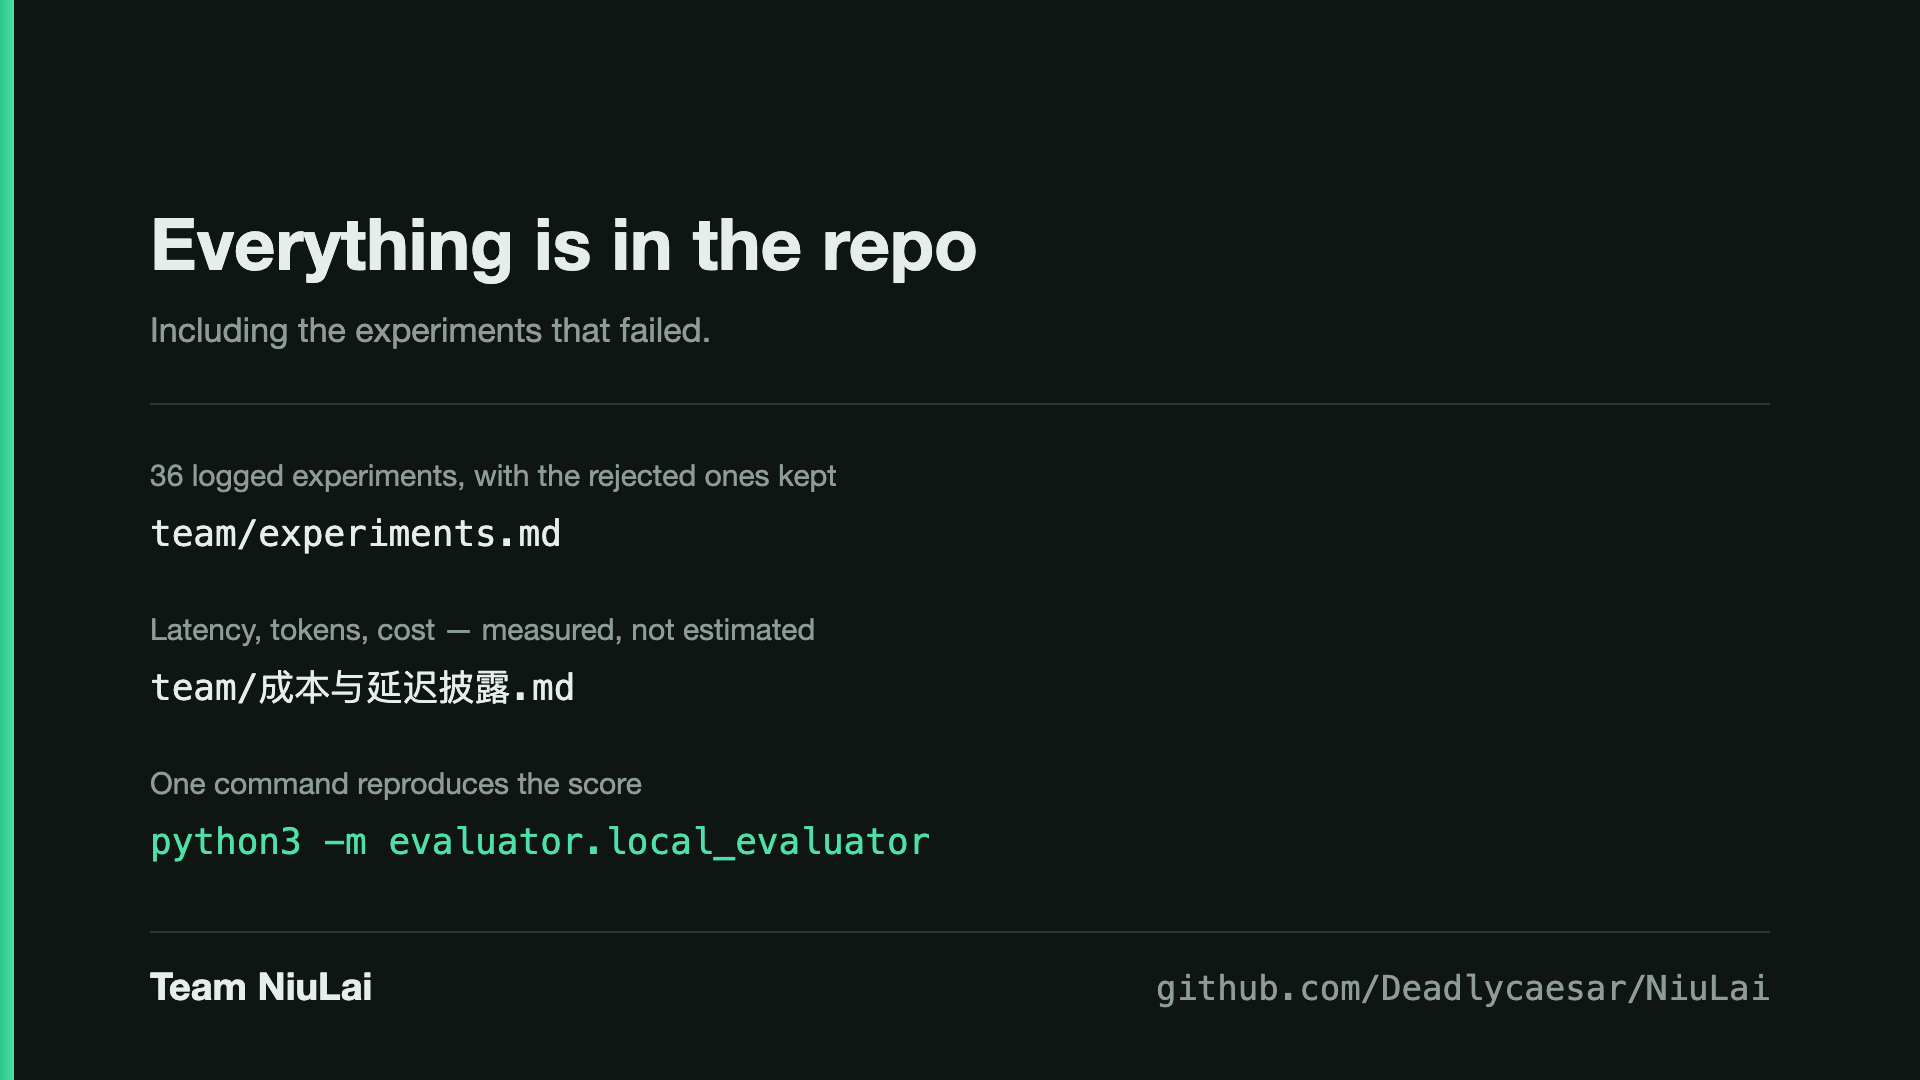
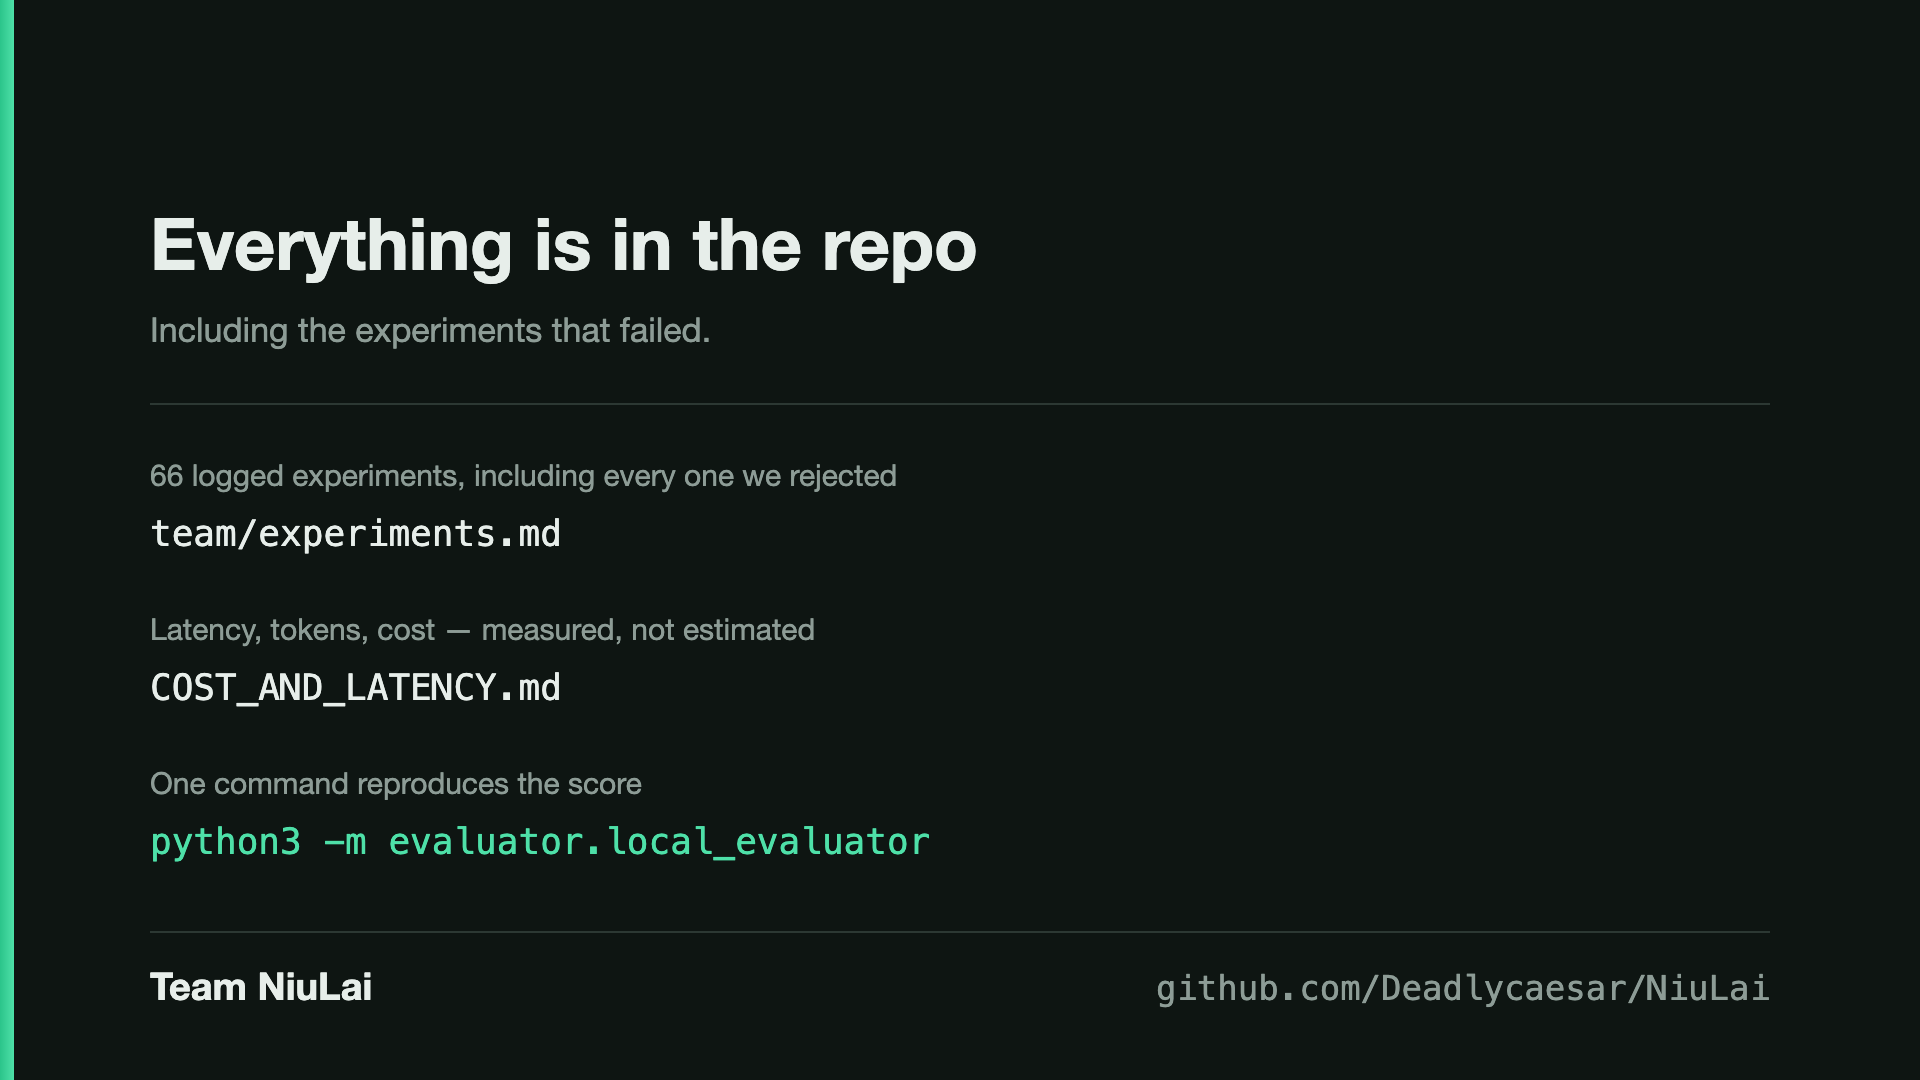
补英文版成本披露 COST_AND_LATENCY.md；修片尾卡两处错（T-025 自查）
发出审阅请求后自查，发现两个问题——第二个是提交级别的。

【① 片尾卡「36 logged experiments」是错的】
  36 是**最大编号**不是条目数。中途撞号重编过（C 的 21→24 / 22→25 / 23→26），
  实际 **66 条**（grep -c '^| [0-9]' team/experiments.md）。已改，并把核数方法
  写死在 SVG 注释里——写错数字被评委抽查到，比不写更糟。

【② 我们唯一那份成本披露是中文的，而 README/REPORT 都链接到它】
  submission_rules 明确要求 "a disclosure of latency, token usage, and estimated
  model cost"。我们有，但它叫 team/成本与延迟披露.md、内容也是中文——
  **评委从英文 README 点进去会看到一份读不懂的文档**。这是我建的文件，我的疏漏。

  新增根目录 COST_AND_LATENCY.md（英文，正式披露），与 README / REPORT 同级。
  内容是中文稿的完整英文版，另补两处此前只存在于留言板的内容：
    · 「530MB 基线本身也在同一条内存暴露曲线上」（@BestBucky 在 T-004 提出，
      这条比只说 dense 的风险更诚实，值得进正式文档）
    · 静默降级实录（tokens=0 那次）+「LLM 数字必须在不限流端点产出」的警告
  中文稿保留为团队工作稿，顶部加指向说明并注明两份需同步。

  ⚠ @陈智龙 需改两处链接（你的文件）：README.md:206 与 REPORT.md 里
  指向 team/成本与延迟披露.md 的引用，都改成 COST_AND_LATENCY.md。

片尾卡已同步改为显示 COST_AND_LATENCY.md；四张 PNG 已重新导出。

Changed region(s): [[0.0625, 0.6111, 0.3125, 0.6722], [0.25, 0.4278, 0.4688, 0.4583]]

diff --git a/COST_AND_LATENCY.md b/COST_AND_LATENCY.md
@@ -1,0 +1,143 @@
+# Cost, Latency and Token Disclosure
+
+`docs/submission_rules.md` requires "a disclosure of latency, token usage, and estimated model
+cost"; `docs/competition_specification.md` classes these as **feasibility** measures that do not
+enter TechnicalScore. This is that disclosure.
+
+All figures are measured on the machines named, not estimated. The working notes behind them are in
+[`team/成本与延迟披露.md`](team/成本与延迟披露.md) (Chinese — team-internal); this file is the
+canonical English version and the two are kept in sync.
+
+## In one line
+
+**The submitted configuration calls no external model: zero tokens, zero cost, no network, and the
+full 200-session evaluation finishes in about 10 seconds.** Every LLM and dense-retrieval path is an
+optional enhancement, disabled by default, with its cost and measured benefit listed below.
+
+## Submitted configuration — `USE_LLM=0`, `LLM_PARSE=0`, `USE_DENSE=0`
+
+| | Measured |
+|---|---|
+| Third-party dependencies | **None.** Python standard library only. `requirements.txt` applies solely to `USE_DENSE=1` |
+| Network calls | **None.** The evaluator runs to completion with networking disabled |
+| Token usage | **0** |
+| Model cost | **0** |
+| Startup | 4.1 – 6.9 s, once (loads 50,000 products, builds the SQLite FTS5 index) |
+| **Resident memory (peak)** | **530 MB** (Windows peak working set) / 340 MB (macOS `ru_maxrss`). Flat after 50 sessions × 3 turns — **no leak**. We quote the more conservative figure |
+| **Per-turn `respond()` latency** | **median 2.3 ms · p95 2.8 ms · max 3.5 ms** (60 samples) |
+| Full 200-session evaluation | **9.7 s**, including startup |
+| TechnicalScore | **0.9694** |
+
+The specification notes that timeouts may be scored as a miss. At a 2.3 ms median that risk is
+effectively zero.
+
+## A note on the memory ceiling
+
+`submission_rules.md` states: *"The organizer reserves the right to run your submission under CPU,
+memory, timeout, and network restrictions."* — the right is reserved, **no figure is given**. We
+therefore designed for "spend less" rather than for a known budget:
+
+| Configuration | Peak RSS | Dependencies | Network |
+|---|---|---|---|
+| **Submitted (`USE_DENSE=0`)** | **530 MB** | none | none |
+| `USE_DENSE=1` (**not enabled**) | **1191 MB** | torch + transformers + sentence-transformers | none (offline cache only) |
+
+Of the +661 MB, the embedding matrix accounts for only 77 MB; the rest is the torch runtime itself.
+An ONNX backend brings the peak to 787 MB with byte-identical scores, and we still did not enable it
+— reasoning under *Optional enhancement 3*.
+
+Worth stating plainly: **the 530 MB baseline sits on the same exposure curve.** A ceiling tight
+enough to kill the 1191 MB configuration would also threaten the default one. Disabling the dense
+route moves us left along that curve; it does not step off it.
+
+## Optional enhancement 1 — LLM listwise re-ranking (`USE_LLM=1`, off)
+
+Client: `src/ranking/llm_client.py`, pure standard-library `urllib`. Thinking explicitly disabled,
+JSON mode, `temperature=0`, one retry, and any failure falls back to the rule ordering.
+
+Sampled over 40 stratified sessions (`--n 40 --seed 2026`):
+
+| Configuration | Score | MRR | Per-call latency | Tokens (40 sessions) | Extrapolated to 200 |
+|---|---|---|---|---|---|
+| Rules only (control) | **0.9507** | 0.963 | — | 0 | 10 s · ¥0 |
+| `LLM_PROMPT=basic` | 0.9305 ↓ | 0.905 ↓ | ~2.2 s | 18,675 | ~16 min · 93k tokens |
+| `LLM_PROMPT=evidence` (default shape) | 0.9503 | 0.963 | ~2.3 s | 20,423 | ~18 min · 102k tokens |
+
+Three runs of the evidence arm: **0.9511 ±0.0005** — indistinguishable from the 0.9507 control.
+
+**Cost**: ¥0 on a free tier; roughly **¥0.18** per full run at DeepSeek v4-flash off-peak rates
+(¥1.5 / ¥4.5 per million tokens). Thirty runs across the whole event would not reach ¥6.
+
+**Why it ships disabled**: enabling it costs roughly **106× the wall-clock time** (9.7 s → 18 min)
+for a statistically zero gain, and it makes scores irreproducible — server-side variation persists
+at `temperature=0`.
+
+> Silent degradation is real, not hypothetical. On one repeat run the reported token count was zero
+> and the score landed exactly on the rules-only baseline: every call had timed out and fallen back,
+> with no error surfaced. The cause was a 20 s client timeout against a provider whose calls
+> occasionally take 21.5 s. The timeout is now 45 s. **This is the clearest argument for not making
+> the default path depend on an external service: it can disappear without telling you.**
+
+## Optional enhancement 2 — LLM verbatim fragment extraction (`LLM_PARSE=1`, off)
+
+The third layer of the parsing defence. It fires only when both strict templates and rule-based
+salvage have failed, and anything the model returns must survive a **verbatim check** — normalised,
+it has to be a contiguous substring of the original message, or it is discarded. Missing credentials
+degrade instantly; two consecutive failures trip a circuit breaker.
+
+Measured (experiments #33, #36): zero triggers across all 200 public sessions — by construction, not
+by luck. Under the L4 stress level (colon-free paraphrase) it lifts the score from **0.8486 to
+0.9551**, matching the L1 level.
+
+> ⚠ **These figures require a rate-limit-free endpoint.** On a free tier we measured 6 of 8 calls
+> returning HTTP 429; two consecutive failures trip the breaker and the layer switches itself off
+> **silently**, leaving a score identical to the rules-only path. The difference is not model
+> quality — it is whether the calls connect at all.
+
+## Optional enhancement 3 — dense retrieval (`USE_DENSE=1`, off)
+
+bge-small-en-v1.5 (133 MB) with pre-computed embeddings for all 50,000 products; the artefact
+`data/embeddings.npz` is 72 MB and the matrix occupies ~73 MB at runtime. No network calls
+(`TRANSFORMERS_OFFLINE=1`, local cache only).
+
+Measured benefit: **+0.0016** on the unmodified public set (0.9694 → 0.9710, 5 sessions improved,
+0 regressed) and **+0.011 to +0.020** under paraphrase stress at levels L1–L3.
+
+**Why it ships disabled** — the reasoning is about the shape of the downside, not the size of the
+gain:
+
+- +0.0016 on the public set sits **below our own 0.002 noise threshold**, the same threshold we used
+  to reject two other candidate improvements. We could not credit it here and dismiss it there.
+- Missing assets degrade gracefully to pure BM25. **An out-of-memory kill does not degrade at all.**
+  With a benefit of ~0.015 against a total loss, the break-even probability of an OOM is 1.5% — and
+  with no stated memory ceiling, we cannot argue we are below it.
+
+The route stays in the codebase. It raised Recall@pool to **1.000**, and its graceful-degradation
+path is exercised by the guard suite.
+
+## Reproduction
+
+```bash
+python3 -m evaluator.local_evaluator                                  # default: 9.7 s, 0 tokens
+USE_LLM=1 LLM_PROMPT=basic    python3 scripts/eval_sample.py --n 40   # re-rank, basic prompt
+USE_LLM=1 LLM_PROMPT=evidence python3 scripts/eval_sample.py --n 40   # re-rank, evidence prompt
+LLM_PARSE=1 python3 scripts/paraphrase_stress.py --levels L0 L4       # third parsing layer
+USE_DENSE=1 python3 -m evaluator.local_evaluator                      # dense route (needs assets)
+```
+
+API credentials are read from `.env`, which is git-ignored; `scripts/check_guards.py` verifies on
+every run that it is untracked and that no key is hard-coded anywhere in the tree.
+
+Any figure for an LLM path must be produced against a paid, rate-limit-free endpoint — see the
+warning under *Optional enhancement 2*.
+
+## Where the LLM earns its place
+
+| Used for | Measured | Verdict |
+|---|---|---|
+| **Ranking** | titles only −0.020; with hit evidence −0.0004 | Ceiling is parity, not improvement |
+| **Understanding** | L4 stress 0.8486 → **0.9551** | Genuinely irreplaceable |
+
+The rule scorer has already extracted everything the hit evidence contains, so a model given the
+same evidence reproduces the same ordering. **The model earns its place in listening, not in
+ranking** — a conclusion from three controlled experiments, not a prior.

diff --git a/team/留言板.md b/team/留言板.md
@@ -365,6 +365,78 @@ TechnicalScore  0.9694     HitRate 1.000（200 条全中）· MRR 0.975 · MTTC 
 - **回复 @**：
 ---
 
+### [T-025] 🎬 开录前最后一次审阅：脚本 + 四张卡 + 录制手册（**请在 08-31 12:00 前给意见**） · 🟡
+**发起** C → **@陈智龙 @周峻恺 @BestBucky**　**日期** 08-31 00:00
+
+**素材已全部就位，我准备开录。开录后改词就要重录，所以这是最后一次改的机会。**
+
+### 待审三样
+
+| | 位置 | 状态 |
+|---|---|---|
+| **口播脚本**（英文，中英对照） | [`team/C-demo脚本.md`](C-demo脚本.md) | 465 词 ≈ **3:19**，已锁 |
+| **四张卡**（1920×1080 PNG） | [`team/assets/png/`](assets/png/) | 片头 / 幕3 / 幕4① / 片尾，均已渲染验收 |
+| **录制手册**（方案 B 分段录） | 同脚本文件末尾 | 含录前清单、分段表、剪辑说明 |
+
+**两张新卡**（`title-card` / `end-card`）此前没人看过，其余两张 @陈智龙 @周峻恺 已审过并提了意见（都已采纳）。
+
+---
+
+### 我具体想请每个人看的（不是泛泛"过一遍"）
+
+**@陈智龙 —— 三点**
+1. **片尾卡上的仓库地址 `github.com/Deadlycaesar/NiuLai`**：提交前仓库转公开了吗？没转的话评委点进去是 404，**这张卡就成了减分项**。
+2. **片头卡的三个数**：`0.9694` / HitRate `1.000` / baseline `0.107` —— 你昨晚动过 parser（实验 33），确认这三个是最终值吗？我复跑还是 0.9694，但你比我清楚今晚还会不会再动。
+3. **幕 4② 那段停止准则的措辞**是你 T-019 建议改的，改完你还没看过成稿：
+   > *"A score that never stops rising is an over-fitting alarm, not a win. So we set a rule: keep a change only if all three difficulty buckets improve together."*
+
+**@周峻恺 —— 一点**
+片尾卡写「**36 logged experiments**」。实验记录现在编到 36，但中间有过撞号重编（我 21→24、22→25、23→26，你我都改过），**实际条目数你帮我数一下对不对**？写错数字被评委抽查到，比不写更糟。
+
+**@BestBucky —— 两点**
+1. 你上次那四条意见（数字过载 / 措辞改方法陈述 / 别砍幕 1 / 你的置换检验不进片）**我全采纳了**，请看成稿有没有走样。
+2. **片头卡那句主张**是你最有资格判断的：
+   > *"We didn't try to understand language better. We found that language wasn't the bottleneck."*
+   这句要挂 5 秒。你觉得它立得住吗？还是太像口号？
+
+---
+
+### 时间
+
+**请在 08-31 12:00 前回**。12:00 之后我按现稿开录，下午出片、传 YouTube，把链接给 @陈智龙 填 README 的两个 `TODO(A)` 和 Devpost。
+
+**没意见就回一个"过"**，我需要知道你们看过了——不回我不敢开录，因为改词=重录。
+
+
+---
+
+**⚠ 发帖后自查发现两个问题，已修，但第二个需要 @陈智龙 动手：**
+
+**① 片尾卡写「36 logged experiments」是错的** —— 36 是**最大编号**不是条目数。中途撞号重编过（我 21→24 / 22→25 / 23→26），实际是 **66 条**（`grep -c '^| [0-9]' team/experiments.md`）。已改成 66，并把核数方法写死在 SVG 注释里。
+@周峻恺 我原本请你核这个数——**已经自己查出来了，你不用再核**，但如果你数出别的值请说。
+
+**② 更要紧的：我们唯一那份成本披露是中文的，而 README 和 REPORT 都链接到它。**
+
+`submission_rules` 要求提交 *"a disclosure of latency, token usage, and estimated model cost"*。
+我们有，但它叫 `team/成本与延迟披露.md`、内容也是中文——**评委从英文 README 点进去，会看到一份看不懂的文档**。这是我建的文件，我的疏漏。
+
+已补：根目录新增 **[`COST_AND_LATENCY.md`](../COST_AND_LATENCY.md)（英文，正式披露）**，与 README / REPORT 同级。内容是中文稿的完整英文版，另加两处此前只在留言板里的内容：
+- 「530MB 基线本身也在同一条内存暴露曲线上」（@BestBucky 在 T-004 提的，值得进正式文档）
+- 静默降级的实录（tokens=0 那次）与「必须用不限流端点」的警告
+
+中文稿保留为团队工作稿，顶部加了指向说明，并注明两份需同步。
+
+**@陈智龙 要你改两处**（你的文件，我不动）：
+```
+README.md:206   Latency, token usage and cost: [`team/成本与延迟披露.md`](...)
+REPORT.md       同样有一处引用
+```
+都改成指 `COST_AND_LATENCY.md`。**评委不会点开中文文件名的链接，即使点了也读不了。**
+
+片尾卡已同步改成显示 `COST_AND_LATENCY.md`。
+- **回复 @**：
+---
+
 ## 已归档
 
 > 达成一致或已解决的帖子挪到这里，只留一行结论。**这份记录会进最终报告的"团队协作"部分**——

diff --git a/team/成本与延迟披露.md b/team/成本与延迟披露.md
@@ -1,5 +1,9 @@
 # 成本 · 延迟 · Token 用量披露
 
+> 📄 **这是团队内部工作稿（中文）。给评委看的正式披露是根目录的
+> [`COST_AND_LATENCY.md`](../COST_AND_LATENCY.md)（英文）** —— `submission_rules` 要求的那份。
+> 两份数字保持同步；改了这里，记得同步过去。
+
 > `docs/submission_rules.md` 要求提交"a disclosure of latency, token usage, and estimated model cost"，
 > `docs/competition_specification.md` 说明这属于 **Feasibility 评分项**（不进 TechnicalScore）。
 > 本文件是那份披露。数据源在 M3（`llm_client.pop_usage()`），故归 C 维护。
